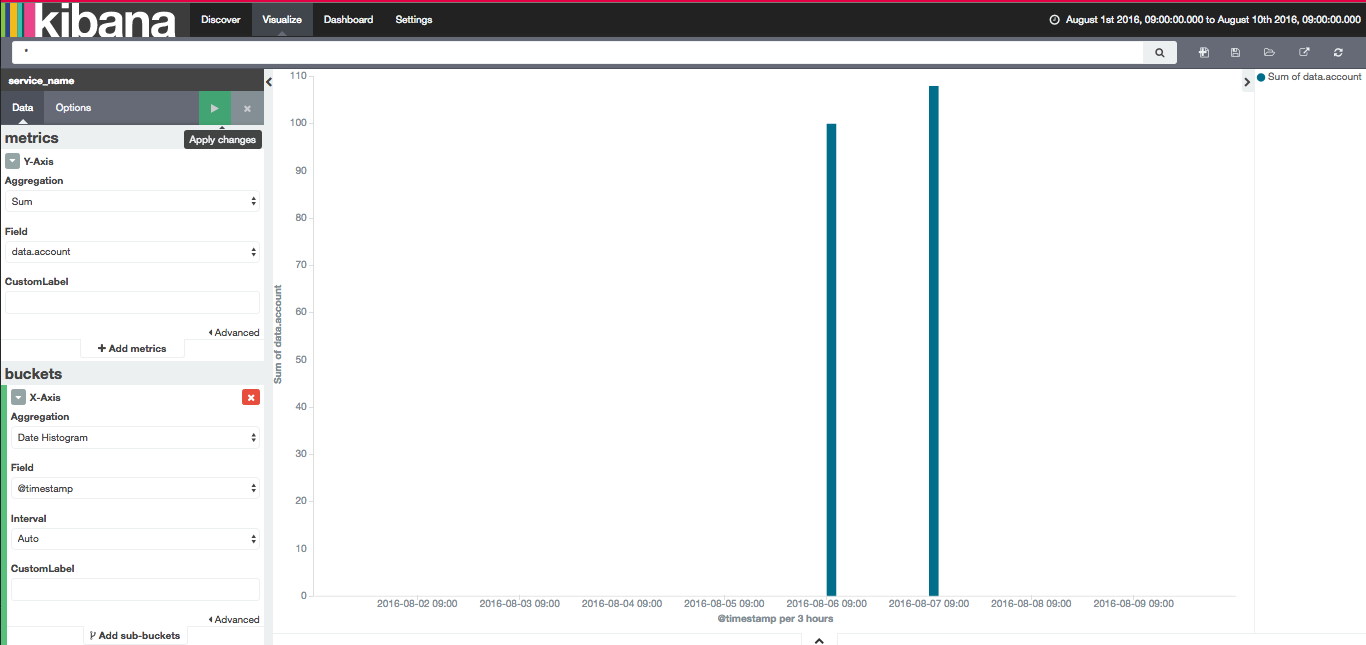
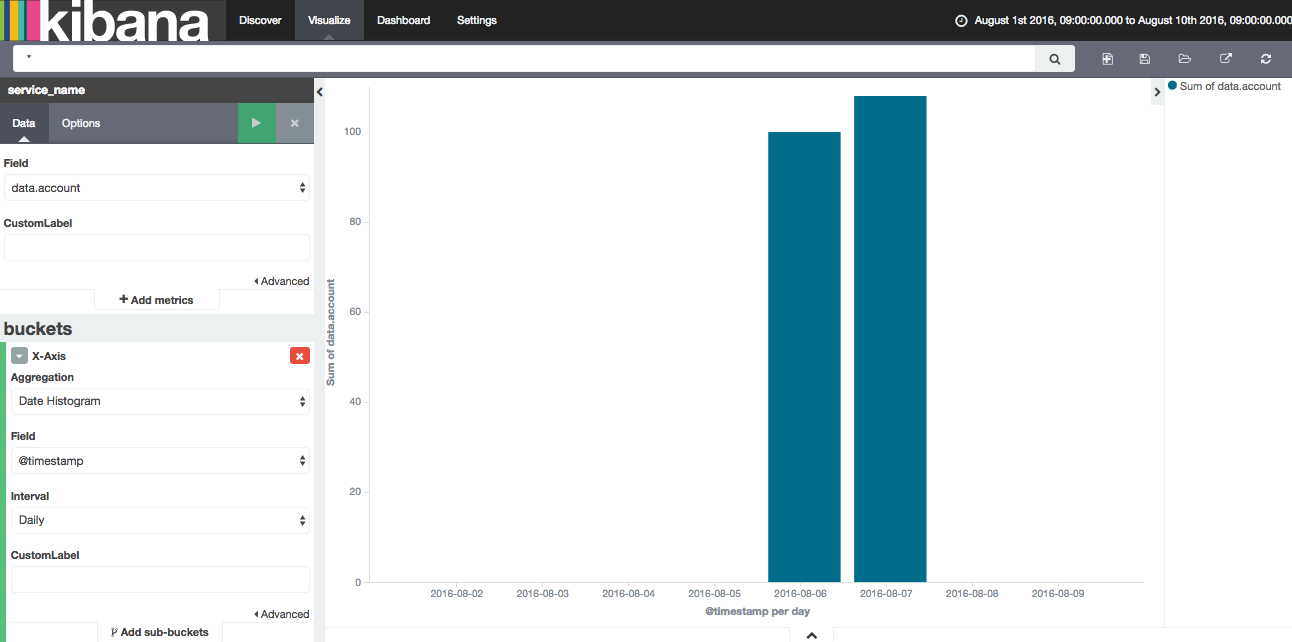
Add sample images.

diff --git a/README.md b/README.md
@@ -202,14 +202,33 @@ cd kibana-4.5.4-darwin-x64
 
 
 ### データを可視化する前にKibana設定をする
-まずSettingsタブでIndex名を指定する。時間データを入れているキー名もいれておく。(今回は@timestamp)
-
+1. まずSettingsタブでIndex名を指定する。時間データを入れているキー名もいれておく。(今回は@timestamp)
 <img src="https://raw.githubusercontent.com/cocodrips/elasticsearch-lesson/master/images/set-index.png">
+
+2. Visualizeタブ > Vertical bar chart > From new search を選択
+3. Y-Axis の 矢印をクリックして Count->Sumに変更、Fieldをdata.account
+4. bucketsでX-Axisを選ぶ。AggregationをDate Histgram、Fieldを@timestampに、IntervalをDailyに設定。
+5. 再生ボタンを押すと、日毎の各条件のアカウント数の合計値グラフが出てきます。
+<img src="">
+
+6. 右上の保存ボタンを押して、「アカウント」というタイトル保存。
 
 あとはこのあたりを参考に
 [Kibana 4 BETAファーストインプレッション - Qiita](http://qiita.com/harukasan/items/3737a1cc0bed2facc14e)
 
+
 <img src="https://raw.githubusercontent.com/cocodrips/elasticsearch-lesson/master/images/date-histgram.png">
+
+### Dashboardを作る
+1. 「Dashboard」タブをクリック
+2. 右上から ＋ みたいな追加ボタンを押して、「アカウント」を選択
+<img src="">
+3. "status.age=10" というように、クエリを書くと、その条件にあったデータの合計値のみがでてくる。
+
+嬉しいけど、クエリを保存してFilterを最初からいくつか準備しておきたいのだけど、
+そのやり方がまだわからない・・・。毎回クエリ書くのはめんどくさいし、エンジニア以外の人に触ってもらうにはよくない。
+
+
 
 ## 参考にしたページ
 [Fluentd + Elasticsearch + Kibanaで遊んでみた(その1) 〜環境構築から簡単な動作確認まで〜 - カタカタブログ](http://totech.hateblo.jp/entry/2016/01/06/214218)
